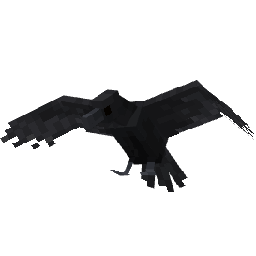
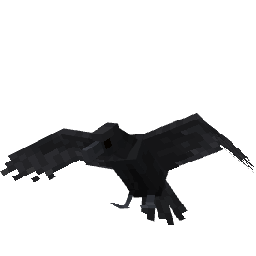
Add wings to custom chicken model Add flapping animation to custom chicken model Add mallard texture Update raven texture

Changed region(s): [[0.0, 0.3125, 1.0, 0.875]]

diff --git a/src/main/java/aqario/fowlplay/client/model/CustomChickenEntityModel.java b/src/main/java/aqario/fowlplay/client/model/CustomChickenEntityModel.java
@@ -2,25 +2,24 @@ package aqario.fowlplay.client.model;
 
 import aqario.fowlplay.client.render.animation.ChickenEntityAnimations;
 import aqario.fowlplay.common.FowlPlay;
+import aqario.fowlplay.common.util.ChickenAnimationStates;
 import net.minecraft.client.model.*;
 import net.minecraft.client.render.entity.model.EntityModelLayer;
 import net.minecraft.client.render.entity.model.SinglePartEntityModel;
-import net.minecraft.entity.AnimationState;
 import net.minecraft.entity.passive.ChickenEntity;
 import net.minecraft.util.Identifier;
 import net.minecraft.util.math.MathHelper;
 
 public class CustomChickenEntityModel extends SinglePartEntityModel<ChickenEntity> {
     public static final EntityModelLayer MODEL_LAYER = new EntityModelLayer(Identifier.of(FowlPlay.ID, "chicken"), "main");
-    public final AnimationState idleState = new AnimationState();
-    public final AnimationState flapState = new AnimationState();
-    public final AnimationState floatState = new AnimationState();
     public final ModelPart root;
     public final ModelPart body;
     public final ModelPart head;
     public final ModelPart torso;
     public final ModelPart leftWing;
     public final ModelPart rightWing;
+    public final ModelPart leftWingOpen;
+    public final ModelPart rightWingOpen;
     public final ModelPart leftLeg;
     public final ModelPart rightLeg;
     public final ModelPart tail;
@@ -32,6 +31,8 @@ public class CustomChickenEntityModel extends SinglePartEntityModel<ChickenEntit
         this.torso = this.body.getChild("torso");
         this.leftWing = this.body.getChild("left_wing");
         this.rightWing = this.body.getChild("right_wing");
+        this.leftWingOpen = this.body.getChild("left_wing_open");
+        this.rightWingOpen = this.body.getChild("right_wing_open");
         this.leftLeg = this.root.getChild("left_leg");
         this.rightLeg = this.root.getChild("right_leg");
         this.tail = this.body.getChild("tail");
@@ -40,9 +41,9 @@ public class CustomChickenEntityModel extends SinglePartEntityModel<ChickenEntit
     public static TexturedModelData getTexturedModelData() {
         ModelData modelData = new ModelData();
         ModelPartData modelPartData = modelData.getRoot();
-        ModelPartData root = modelPartData.addChild("root", ModelPartBuilder.create(), ModelTransform.pivot(0.0F, 24.0F, 0.0F));
+        ModelPartData root = modelPartData.addChild("root", ModelPartBuilder.create(), ModelTransform.pivot(0.0F, 19.0F, 0.0F));
 
-        ModelPartData body = root.addChild("body", ModelPartBuilder.create(), ModelTransform.pivot(0.0F, -3.5F, 0.0F));
+        ModelPartData body = root.addChild("body", ModelPartBuilder.create(), ModelTransform.pivot(0.0F, 1.5F, 0.0F));
 
         ModelPartData head = body.addChild("head", ModelPartBuilder.create().uv(0, 21).cuboid(-1.0F, -6.0F, -1.0F, 2.0F, 6.0F, 2.0F, new Dilation(0.0F))
             .uv(0, -3).cuboid(0.0F, -7.0F, -2.0F, 0.0F, 2.0F, 3.0F, new Dilation(0.0F))
@@ -57,14 +58,22 @@ public class CustomChickenEntityModel extends SinglePartEntityModel<ChickenEntit
 
         body.addChild("right_wing", ModelPartBuilder.create().uv(0, 11).mirrored().cuboid(-0.25F, -1.0F, -0.5F, 1.0F, 4.0F, 6.0F, new Dilation(0.0F)).mirrored(false), ModelTransform.of(-2.25F, -3.55F, -1.5F, -0.3491F, 0.0F, 0.0F));
 
-        body.addChild("tail", ModelPartBuilder.create().uv(15, 0).cuboid(-1.0F, -1.0F, 1.0F, 2.0F, 2.0F, 2.0F, new Dilation(0.0F))
-            .uv(8, 16).cuboid(0.0F, -6.0F, 1.0F, 0.0F, 8.0F, 5.0F, new Dilation(0.0F)), ModelTransform.of(0.0F, -2.0F, 2.0F, -0.2618F, 0.0F, 0.0F));
+        ModelPartData left_wing_open = body.addChild("left_wing_open", ModelPartBuilder.create().uv(8, 19).cuboid(-0.5F, 0.0F, -1.0F, 5.0F, 1.0F, 6.0F, new Dilation(0.0F)), ModelTransform.of(1.0F, -4.25F, -1.0F, -0.3491F, 0.0F, 0.0F));
 
-        ModelPartData left_leg = root.addChild("left_leg", ModelPartBuilder.create().uv(0, 4).cuboid(-0.5F, 1.0F, 0.0F, 1.0F, 3.0F, 0.0F, new Dilation(0.0F)), ModelTransform.of(1.25F, -4.0F, 1.5F, -0.1745F, 0.0F, 0.0F));
+        left_wing_open.addChild("left_wing_outer", ModelPartBuilder.create().uv(2, 26).cuboid(0.0F, 0.0F, 0.0F, 5.0F, 0.0F, 6.0F, new Dilation(0.0F)), ModelTransform.pivot(4.5F, 0.0F, -1.0F));
+
+        ModelPartData right_wing_open = body.addChild("right_wing_open", ModelPartBuilder.create().uv(8, 19).mirrored().cuboid(-4.5F, 0.0F, -1.0F, 5.0F, 1.0F, 6.0F, new Dilation(0.0F)).mirrored(false), ModelTransform.of(-1.0F, -4.25F, -1.0F, -0.3491F, 0.0F, 0.0F));
+
+        right_wing_open.addChild("right_wing_outer", ModelPartBuilder.create().uv(2, 26).mirrored().cuboid(-5.0F, 0.0F, 0.0F, 5.0F, 0.0F, 6.0F, new Dilation(0.0F)).mirrored(false), ModelTransform.pivot(-4.5F, 0.0F, -1.0F));
+
+        body.addChild("tail", ModelPartBuilder.create().uv(15, 0).cuboid(-1.0F, -1.0F, 1.0F, 2.0F, 2.0F, 2.0F, new Dilation(0.0F))
+            .uv(22, -1).cuboid(0.0F, -6.0F, 1.0F, 0.0F, 8.0F, 5.0F, new Dilation(0.0F)), ModelTransform.of(0.0F, -2.0F, 2.0F, -0.2618F, 0.0F, 0.0F));
+
+        ModelPartData left_leg = root.addChild("left_leg", ModelPartBuilder.create().uv(0, 4).cuboid(-0.5F, 1.0F, 0.0F, 1.0F, 3.0F, 0.0F, new Dilation(0.0F)), ModelTransform.of(1.25F, 1.0F, 1.5F, -0.1745F, 0.0F, 0.0F));
 
         left_leg.addChild("cube_r1", ModelPartBuilder.create().uv(0, 5).mirrored().cuboid(0.5F, 0.0F, -2.0F, 2.0F, 0.0F, 2.0F, new Dilation(0.0F)).mirrored(false), ModelTransform.of(-1.5F, 4.0F, 0.0F, 0.1745F, 0.0F, 0.0F));
 
-        ModelPartData right_leg = root.addChild("right_leg", ModelPartBuilder.create().uv(0, 4).cuboid(-0.5F, 1.0F, 0.0F, 1.0F, 3.0F, 0.0F, new Dilation(0.0F)), ModelTransform.of(-1.25F, -4.0F, 1.5F, -0.1745F, 0.0F, 0.0F));
+        ModelPartData right_leg = root.addChild("right_leg", ModelPartBuilder.create().uv(0, 4).cuboid(-0.5F, 1.0F, 0.0F, 1.0F, 3.0F, 0.0F, new Dilation(0.0F)), ModelTransform.of(-1.25F, 1.0F, 1.5F, -0.1745F, 0.0F, 0.0F));
 
         right_leg.addChild("cube_r2", ModelPartBuilder.create().uv(0, 5).cuboid(-0.5F, 0.0F, -2.0F, 2.0F, 0.0F, 2.0F, new Dilation(0.0F)), ModelTransform.of(-0.5F, 4.0F, 0.0F, 0.1745F, 0.0F, 0.0F));
 
@@ -75,36 +84,25 @@ public class CustomChickenEntityModel extends SinglePartEntityModel<ChickenEntit
     public void setAngles(ChickenEntity chicken, float limbSwing, float limbSwingAmount, float ageInTicks, float netHeadYaw, float headPitch) {
         this.getPart().traverse().forEach(ModelPart::resetTransform);
         this.updateHeadRotation(netHeadYaw, headPitch);
-
-        // animation state processing
-        if (chicken.isOnGround() && !chicken.isInsideWaterOrBubbleColumn()) {
-            this.idleState.start(chicken.age);
+        if (chicken.isOnGround()) {
+            this.leftWingOpen.visible = false;
+            this.rightWingOpen.visible = false;
+            this.leftWing.visible = true;
+            this.rightWing.visible = true;
         }
         else {
-            this.idleState.stop();
+            this.leftWingOpen.visible = true;
+            this.rightWingOpen.visible = true;
+            this.leftWing.visible = false;
+            this.rightWing.visible = false;
         }
-
-        if (!chicken.isOnGround() && !chicken.isInsideWaterOrBubbleColumn()) {
-            this.flapState.start(chicken.age);
-        }
-        else {
-            this.flapState.stop();
-        }
-
-        if (chicken.isInsideWaterOrBubbleColumn()) {
-            this.floatState.start(chicken.age);
-        }
-        else {
-            this.floatState.stop();
-        }
-        //
 
         if (chicken.isOnGround() && !chicken.isInsideWaterOrBubbleColumn()) {
             this.animateWalk(ChickenEntityAnimations.CHICKEN_WALK, limbSwing, limbSwingAmount, 3F, 3F);
         }
-        this.animate(this.idleState, ChickenEntityAnimations.CHICKEN_IDLE, ageInTicks);
-        this.animate(this.flapState, ChickenEntityAnimations.CHICKEN_FLAP, ageInTicks);
-        this.animate(this.floatState, ChickenEntityAnimations.CHICKEN_FLOAT, ageInTicks);
+        this.animate(((ChickenAnimationStates) chicken).fowlplay$getIdleState(), ChickenEntityAnimations.CHICKEN_IDLE, ageInTicks);
+        this.animate(((ChickenAnimationStates) chicken).fowlplay$getFlapState(), ChickenEntityAnimations.CHICKEN_FLAP, ageInTicks);
+        this.animate(((ChickenAnimationStates) chicken).fowlplay$getFloatState(), ChickenEntityAnimations.CHICKEN_FLOAT, ageInTicks);
     }
 
     private void updateHeadRotation(float headYaw, float headPitch) {

diff --git a/src/main/java/aqario/fowlplay/client/render/animation/ChickenEntityAnimations.java b/src/main/java/aqario/fowlplay/client/render/animation/ChickenEntityAnimations.java
@@ -170,7 +170,7 @@ public class ChickenEntityAnimations {
         )
         .build();
 
-    public static final Animation CHICKEN_FLAP = Animation.Builder.withLength(0f)
+    public static final Animation CHICKEN_FLAP = Animation.Builder.withLength(0.25f).looping()
         .addPartAnimation(
             "head",
             new PartAnimation(
@@ -225,6 +225,97 @@ public class ChickenEntityAnimations {
             new PartAnimation(
                 PartAnimation.AnimationTargets.ROTATE,
                 new AnimationKeyframe(0f, Animator.rotate(-8.11f, 11.58f, 10.05f), PartAnimation.Interpolations.LINEAR)
+            )
+        )
+        .addPartAnimation(
+            "root",
+            new PartAnimation(
+                PartAnimation.AnimationTargets.TRANSLATE,
+                new AnimationKeyframe(0f, Animator.translate(0f, 0f, 0f), PartAnimation.Interpolations.SPLINE),
+                new AnimationKeyframe(0.041676664f, Animator.translate(0f, 0f, 0f), PartAnimation.Interpolations.SPLINE),
+                new AnimationKeyframe(0.08343333f, Animator.translate(0f, 0.5f, 0f), PartAnimation.Interpolations.SPLINE),
+                new AnimationKeyframe(0.20834334f, Animator.translate(0f, 0f, 0f), PartAnimation.Interpolations.SPLINE)
+            )
+        )
+        .addPartAnimation(
+            "root",
+            new PartAnimation(
+                PartAnimation.AnimationTargets.ROTATE,
+                new AnimationKeyframe(0f, Animator.rotate(5f, 0f, 0f), PartAnimation.Interpolations.SPLINE),
+                new AnimationKeyframe(0.08343333f, Animator.rotate(2.5f, 0f, 0f), PartAnimation.Interpolations.SPLINE),
+                new AnimationKeyframe(0.20834334f, Animator.rotate(5f, 0f, 0f), PartAnimation.Interpolations.SPLINE)
+            )
+        )
+        .addPartAnimation(
+            "left_wing_open",
+            new PartAnimation(
+                PartAnimation.AnimationTargets.TRANSLATE,
+                new AnimationKeyframe(0f, Animator.translate(0.75f, 0.25f, 0f), PartAnimation.Interpolations.SPLINE)
+            )
+        )
+        .addPartAnimation(
+            "left_wing_open",
+            new PartAnimation(
+                PartAnimation.AnimationTargets.ROTATE,
+                new AnimationKeyframe(0f, Animator.rotate(0f, 0f, -35f), PartAnimation.Interpolations.SPLINE),
+                new AnimationKeyframe(0.08343333f, Animator.rotate(-6.43f, 11.07f, 19.56f), PartAnimation.Interpolations.SPLINE),
+                new AnimationKeyframe(0.125f, Animator.rotate(4.82f, 14.94f, 38.66f), PartAnimation.Interpolations.SPLINE),
+                new AnimationKeyframe(0.25f, Animator.rotate(0f, 0f, -35f), PartAnimation.Interpolations.SPLINE)
+            )
+        )
+        .addPartAnimation(
+            "left_wing_outer",
+            new PartAnimation(
+                PartAnimation.AnimationTargets.TRANSLATE,
+                new AnimationKeyframe(0f, Animator.translate(-0.5f, 0f, 0f), PartAnimation.Interpolations.SPLINE),
+                new AnimationKeyframe(0.125f, Animator.translate(-0.25f, 0f, 0f), PartAnimation.Interpolations.SPLINE),
+                new AnimationKeyframe(0.25f, Animator.translate(-0.5f, 0f, 0f), PartAnimation.Interpolations.SPLINE)
+            )
+        )
+        .addPartAnimation(
+            "left_wing_outer",
+            new PartAnimation(
+                PartAnimation.AnimationTargets.ROTATE,
+                new AnimationKeyframe(0f, Animator.rotate(0f, 5f, -5f), PartAnimation.Interpolations.SPLINE),
+                new AnimationKeyframe(0.125f, Animator.rotate(0f, 0f, 15f), PartAnimation.Interpolations.SPLINE),
+                new AnimationKeyframe(0.14583434f, Animator.rotate(0f, -5.29f, 11.54f), PartAnimation.Interpolations.SPLINE),
+                new AnimationKeyframe(0.25f, Animator.rotate(0f, 5f, -5f), PartAnimation.Interpolations.SPLINE)
+            )
+        )
+        .addPartAnimation(
+            "right_wing_open",
+            new PartAnimation(
+                PartAnimation.AnimationTargets.TRANSLATE,
+                new AnimationKeyframe(0f, Animator.translate(-0.75f, 0.25f, 0f), PartAnimation.Interpolations.SPLINE)
+            )
+        )
+        .addPartAnimation(
+            "right_wing_open",
+            new PartAnimation(
+                PartAnimation.AnimationTargets.ROTATE,
+                new AnimationKeyframe(0f, Animator.rotate(0f, 0f, 35f), PartAnimation.Interpolations.SPLINE),
+                new AnimationKeyframe(0.08343333f, Animator.rotate(-6.43f, -11.07f, -19.56f), PartAnimation.Interpolations.SPLINE),
+                new AnimationKeyframe(0.125f, Animator.rotate(4.82f, -14.94f, -38.66f), PartAnimation.Interpolations.SPLINE),
+                new AnimationKeyframe(0.25f, Animator.rotate(0f, 0f, 35f), PartAnimation.Interpolations.SPLINE)
+            )
+        )
+        .addPartAnimation(
+            "right_wing_outer",
+            new PartAnimation(
+                PartAnimation.AnimationTargets.TRANSLATE,
+                new AnimationKeyframe(0f, Animator.translate(0.5f, 0f, 0f), PartAnimation.Interpolations.SPLINE),
+                new AnimationKeyframe(0.125f, Animator.translate(0.25f, 0f, 0f), PartAnimation.Interpolations.SPLINE),
+                new AnimationKeyframe(0.25f, Animator.translate(0.5f, 0f, 0f), PartAnimation.Interpolations.SPLINE)
+            )
+        )
+        .addPartAnimation(
+            "right_wing_outer",
+            new PartAnimation(
+                PartAnimation.AnimationTargets.ROTATE,
+                new AnimationKeyframe(0f, Animator.rotate(0f, -5f, 5f), PartAnimation.Interpolations.SPLINE),
+                new AnimationKeyframe(0.125f, Animator.rotate(0f, 0f, -15f), PartAnimation.Interpolations.SPLINE),
+                new AnimationKeyframe(0.14583434f, Animator.rotate(0f, 5.29f, -13.52f), PartAnimation.Interpolations.SPLINE),
+                new AnimationKeyframe(0.25f, Animator.rotate(0f, -5f, 5f), PartAnimation.Interpolations.SPLINE)
             )
         )
         .build();

diff --git a/src/main/java/aqario/fowlplay/mixin/ChickenEntityMixin.java b/src/main/java/aqario/fowlplay/mixin/ChickenEntityMixin.java
@@ -1,0 +1,49 @@
+package aqario.fowlplay.mixin;
+
+import aqario.fowlplay.common.util.ChickenAnimationStates;
+import net.minecraft.entity.AnimationState;
+import net.minecraft.entity.EntityType;
+import net.minecraft.entity.passive.AnimalEntity;
+import net.minecraft.entity.passive.ChickenEntity;
+import net.minecraft.world.World;
+import org.spongepowered.asm.mixin.Mixin;
+import org.spongepowered.asm.mixin.Unique;
+
+@Mixin(ChickenEntity.class)
+public abstract class ChickenEntityMixin extends AnimalEntity implements ChickenAnimationStates {
+    @Unique
+    private final AnimationState idleState = new AnimationState();
+    @Unique
+    private final AnimationState flapState = new AnimationState();
+    @Unique
+    private final AnimationState floatState = new AnimationState();
+
+    protected ChickenEntityMixin(EntityType<? extends AnimalEntity> entityType, World world) {
+        super(entityType, world);
+    }
+
+    @Override
+    public void tick() {
+        if (this.getWorld().isClient()) {
+            this.idleState.animateIf(this.isOnGround() && !this.isInsideWaterOrBubbleColumn(), this.age);
+            this.flapState.animateIf(!this.isOnGround() && !this.isInsideWaterOrBubbleColumn(), this.age);
+            this.floatState.animateIf(this.isInsideWaterOrBubbleColumn(), this.age);
+        }
+        super.tick();
+    }
+
+    @Override
+    public AnimationState fowlplay$getIdleState() {
+        return this.idleState;
+    }
+
+    @Override
+    public AnimationState fowlplay$getFlapState() {
+        return this.flapState;
+    }
+
+    @Override
+    public AnimationState fowlplay$getFloatState() {
+        return this.floatState;
+    }
+}

diff --git a/src/main/java/aqario/fowlplay/common/util/ChickenAnimationStates.java b/src/main/java/aqario/fowlplay/common/util/ChickenAnimationStates.java
@@ -1,0 +1,11 @@
+package aqario.fowlplay.common.util;
+
+import net.minecraft.entity.AnimationState;
+
+public interface ChickenAnimationStates {
+    AnimationState fowlplay$getIdleState();
+
+    AnimationState fowlplay$getFlapState();
+
+    AnimationState fowlplay$getFloatState();
+}
